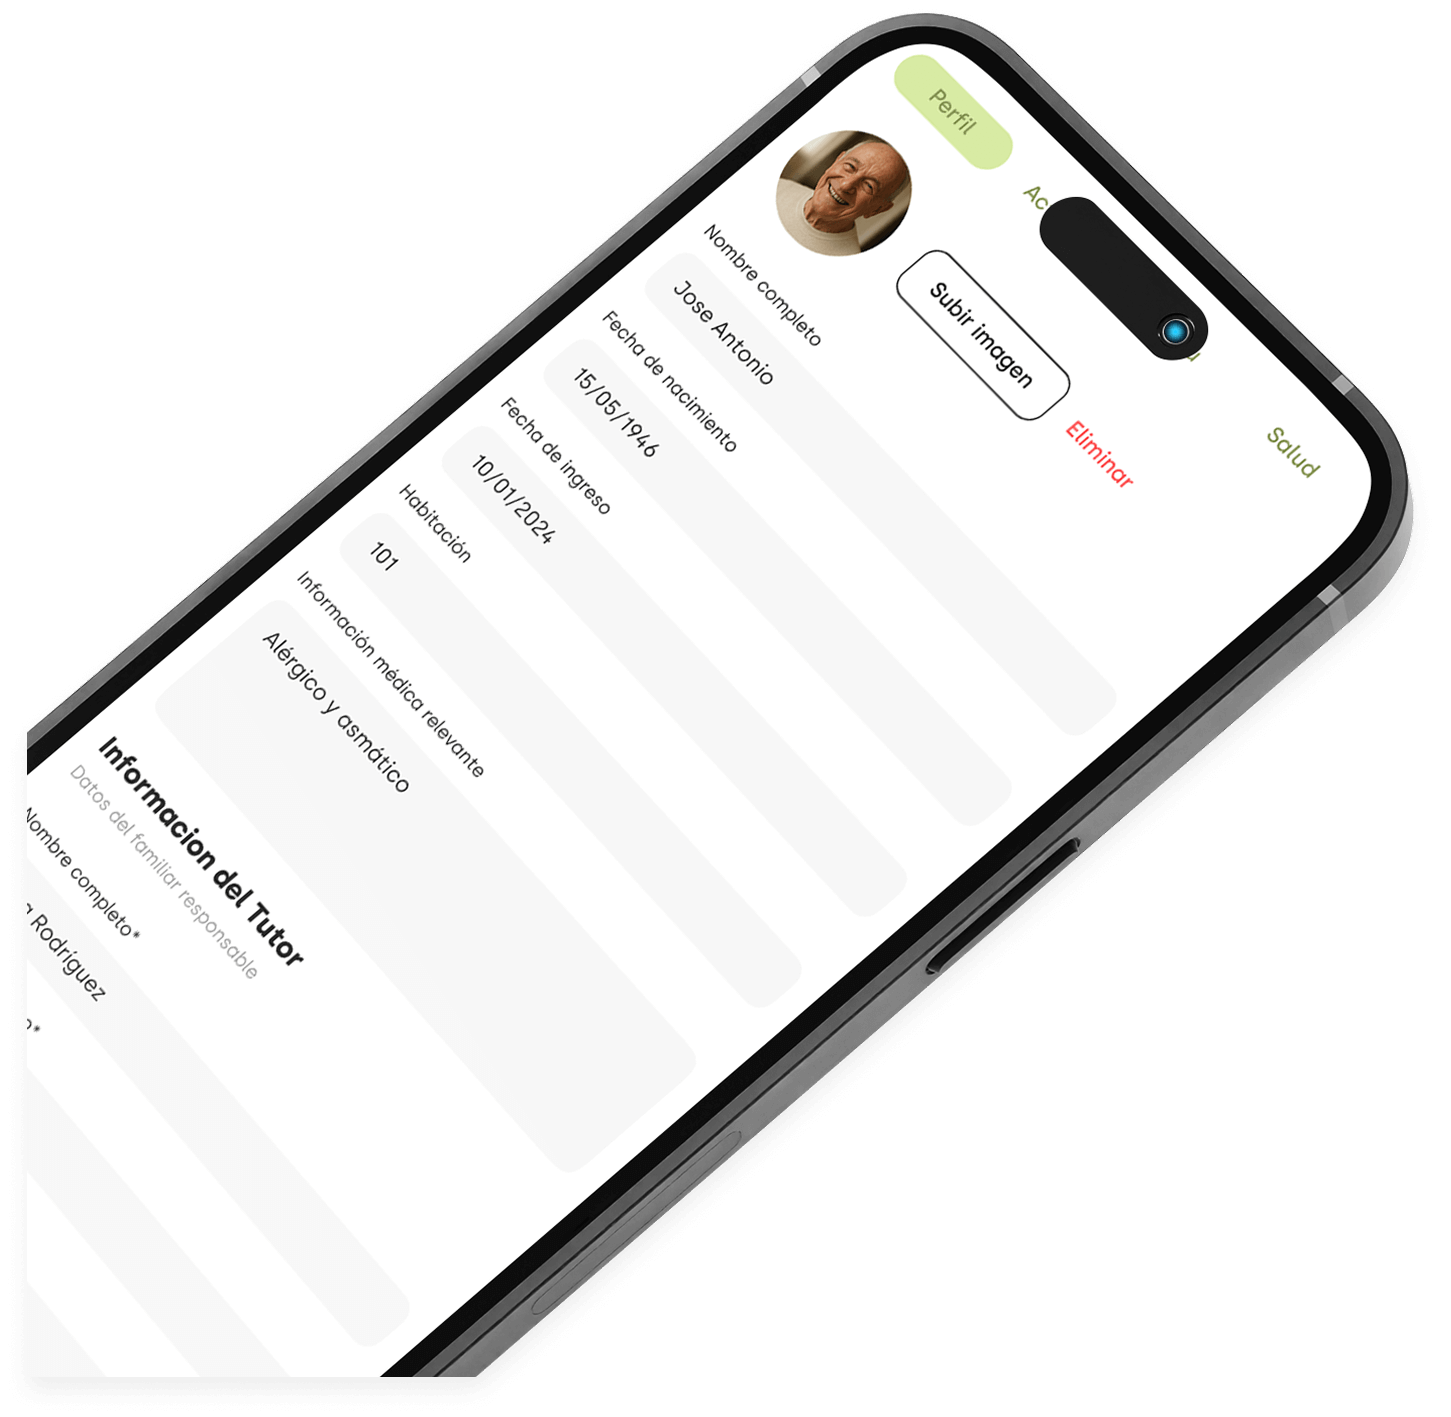
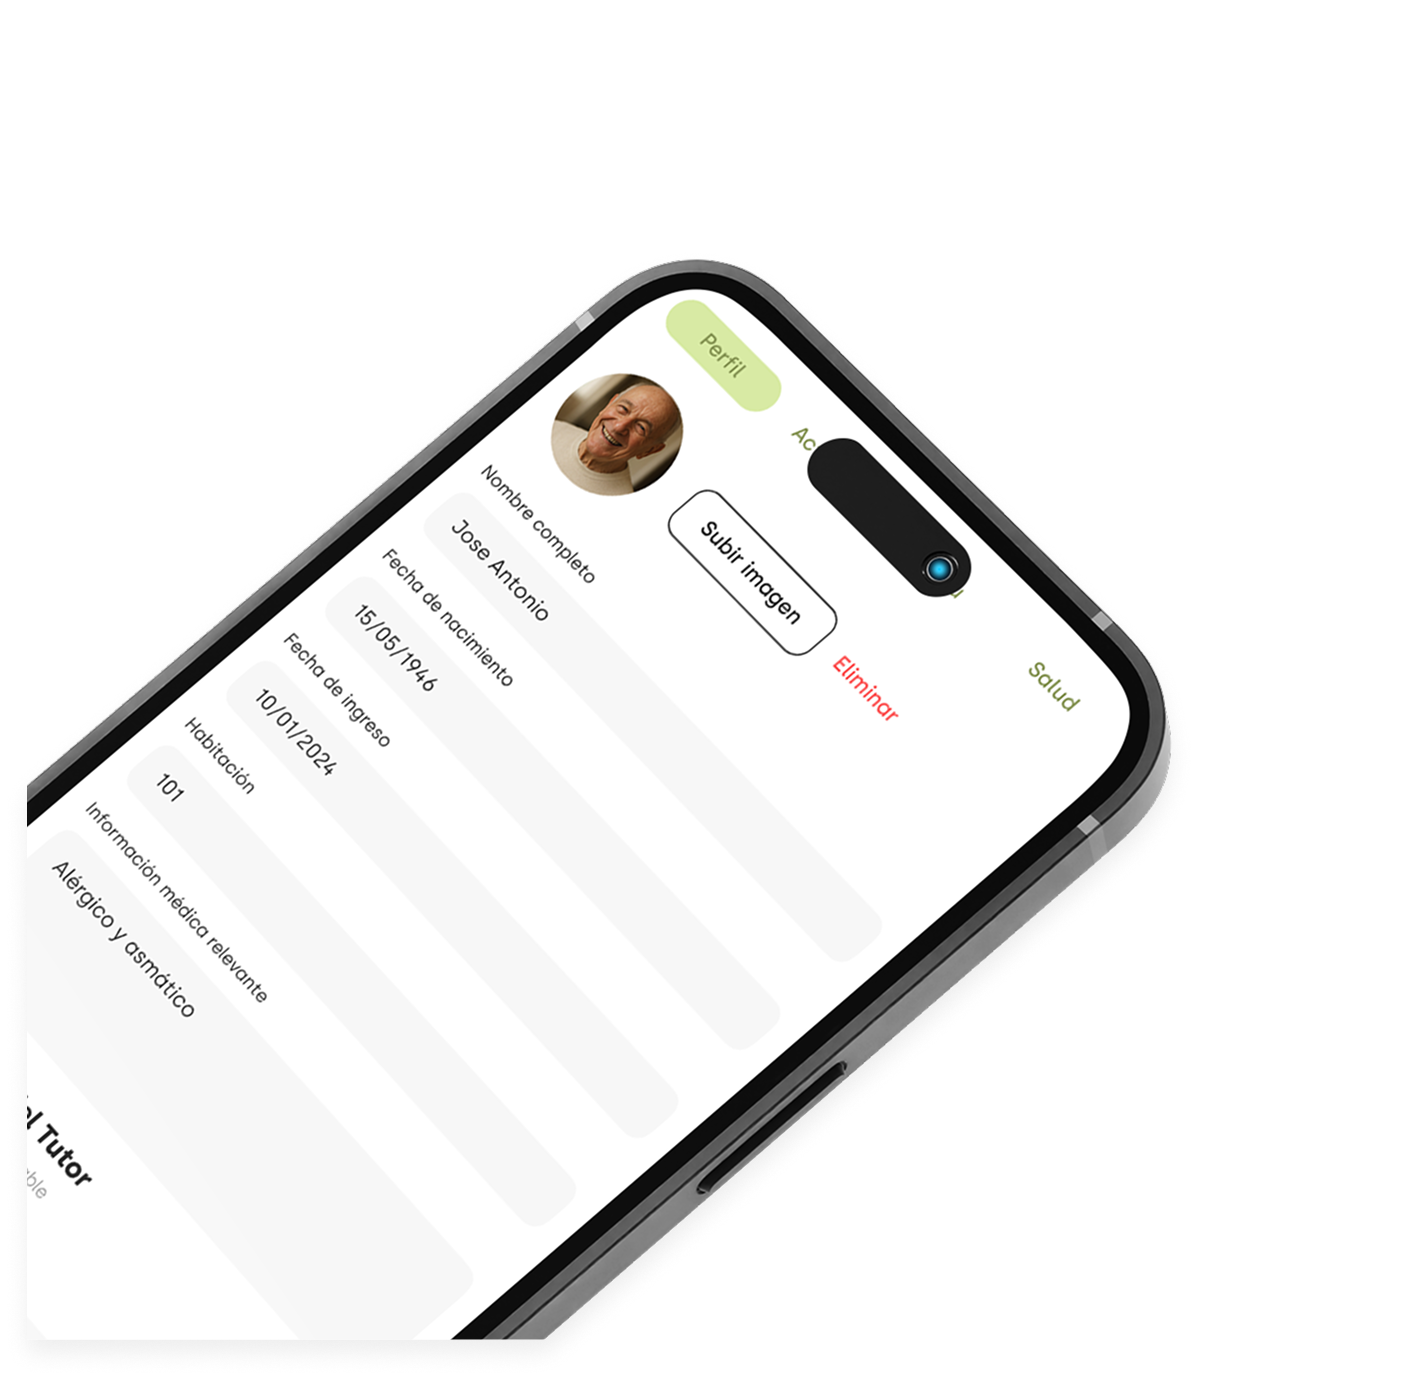
aaa

diff --git a/src/assets/css/style.css b/src/assets/css/style.css
@@ -2330,6 +2330,12 @@ mark {
     font-size: 16px;
     line-height: 1.4;
   }
+  .p33 {
+    font-family: "font-regular", Helvetica, "Arial ", "Lucida Grande", sans-serif;
+    font-weight: 400;
+    font-size: 12px;
+    line-height: 1.4;
+  }
   .p4 {
     font-family: "font-regular", Helvetica, "Arial ", "Lucida Grande", sans-serif;
     font-weight: 400;
@@ -2370,6 +2376,10 @@ mark {
   }
   .p3 {
     font-size: 16px;
+    line-height: 1.4;
+  }
+  .p33 {
+    font-size: 14px;
     line-height: 1.4;
   }
   .p4 {
@@ -15489,8 +15499,9 @@ svg#bubble-whatsapp-icon path {
 .boxshow-inner-img {
   display: flex;
   flex-direction: column;
-  height: 100%;
+  height: 75%;
   align-items: center;
+  z-index: 10;
 }
 .lateral-scroll-title {
   position: absolute;
@@ -15886,7 +15897,6 @@ html {
 }
 
 body {
-  overflow-x: hidden;
   color: var(--c-primary);
   background-color: #fff;
   scroll-behavior: smooth;
@@ -17370,7 +17380,7 @@ html.lenis body {
   right: 64px;
   width: 100%;
   height: 100%;
-  z-index: 10;
+  z-index: 5;
 }
 .lineright svg {
   width: 100%;
@@ -17457,11 +17467,13 @@ html.lenis body {
   left: -10px;
   position: absolute;
   gap: 8px;
+  top: 12px;
 }
 @media (min-width: 768px) {
   .logo-unires {
     transform: scale(1);
     left: 20px;
+    top: 15px;
   }
 }
 
@@ -17519,4 +17531,15 @@ ul.list-vertical li a {
   list-style: none;
   padding: 0;
   margin: 0;
+}
+
+.arrow-border {
+  display: flex;
+  align-items: center;
+  justify-content: center;
+  border: 1px solid hsla(0, 0%, 100%, 0.22);
+  border-radius: 50px;
+  padding: 8px;
+  width: 100px;
+  height: 50px;
 }

diff --git a/src/assets/js/scroll.js b/src/assets/js/scroll.js
@@ -7,11 +7,12 @@ els.forEach((el) => {
 // Inicializar Lenis
 let lenis = new Lenis({
   smooth: true,
-  lerp: 0.07, // Suavidad del scroll
-  duration: 1.2, // Suavidad del scroll
-  pinned: true,
+  lerp: 0.1, // Suavidad del scroll
+  duration: 1, // Suavidad del scroll
   easing: (t) => t, // Curva de desplazamiento (lineal)
 });
+
+console.log("Lenis inicializado");
 
 // Agregar la clase "scrolled" al body según la posición del scroll
 lenis.on('scroll', () => {
@@ -23,8 +24,6 @@ lenis.on('scroll', () => {
     document.body.classList.remove("scrolled");
   }
 });
-
-
 
 function updateOpacity() {
   const sections = document.querySelectorAll('.fade-opacity');
@@ -47,19 +46,9 @@ function updateOpacity() {
 function raf(time) {
   lenis.raf(time);
   updateOpacity(); // Actualiza la opacidad en cada frame
-  updateBodyColor(); // Actualiza el color del body en cada frame
+  requestAnimationFrame(raf);
 }
 
-let isScrolling = false;
-
-document.addEventListener('scroll', () => {
-  if (!isScrolling) {
-    isScrolling = true;
-    requestAnimationFrame((time) => {
-      raf(time);
-      isScrolling = false;
-    });
-  }
-});
-
+// Inicializar el loop de animación
+requestAnimationFrame(raf);
 

diff --git a/src/assets/js/inview.js b/src/assets/js/inview.js
@@ -223,31 +223,9 @@ const createObservers = () => {
   });
 };
 
-// Función para limpiar observadores (importante para Barba.js)
-const cleanupObservers = () => {
-  if (inViewObserver) inViewObserver.disconnect();
-  if (inView80Observer) inView80Observer.disconnect();
-  if (animateOnScrollObserver) animateOnScrollObserver.disconnect();
-  if (animateWordsObserver) animateWordsObserver.disconnect();
-  if (animateBoxObserver) animateBoxObserver.disconnect();
-  if (animateBox2Observer) animateBox2Observer.disconnect();
-  if (animateListObserver) animateListObserver.disconnect();
-  if (animateLettersObserver) animateLettersObserver.disconnect();
-};
-
-// Función de inicialización que se puede llamar desde Barba.js
-const initInView = () => {
-  console.log('Inicializando InView...');
-  cleanupObservers();
-  createObservers();
-};
-
-// Inicialización inicial
+// Inicialización cuando el DOM esté listo
 document.addEventListener("DOMContentLoaded", function () {
-  initInView();
+  createObservers();
 });
-
-// Hacer la función disponible globalmente para Barba.js
-window.initInView = initInView;
 
 let getRatio = el => window.innerHeight / (window.innerHeight + el.offsetHeight);

diff --git a/src/assets/sass/style.scss b/src/assets/sass/style.scss
@@ -75,7 +75,7 @@ html {
   scroll-padding-top: 80px;
 }
 body {
-  overflow-x: hidden;
+
   color: $c-primary;
   background-color: #fff;
   scroll-behavior: smooth;
@@ -1358,7 +1358,7 @@ left: 0;
   right: 64px;
   width: 100%;
   height: 100%;
-  z-index: 10;
+  z-index: 5;
   svg {
     width: 100%;
   }
@@ -1450,17 +1450,18 @@ left: 0;
 
 }
 .logo-unires{
-  display: flex
-  ;
+  display: flex;
       align-items: center;
       transform: scale(0.7);
       left: -10px;
       position: absolute;
       gap: 8px;
+      top: 12px;
 
       @media (min-width: 768px) {
         transform: scale(1);
         left: 20px;
+        top: 15px;
       }
 }
 
@@ -1532,4 +1533,17 @@ position: relative;
   list-style: none;
   padding: 0;
   margin: 0;
+}
+
+.arrow-border{
+  display: flex;
+  align-items: center;
+  justify-content: center;
+  border: 1px solid hsla(0, 0%, 100%, 0.22);
+  border-radius: 50px;
+  padding: 8px;
+  width: 100px;
+  height: 50px;
+
+
 }

diff --git a/src/assets/sass/abstract/_setup.scss b/src/assets/sass/abstract/_setup.scss
@@ -41,6 +41,7 @@ $minheaders: /* name: mobile,768,992,1280, line-height, font */
   p1: (18px, 24px, 1.2, "medium"), // 120 %
   p2: (18px, 18px, 1.4, "medium"), // 140 %
   p3: (16px, 16px, 1.4, "regular"), // 140 %
+  p33: (12px, 14px, 1.4, "regular"), // 140 %
   p4: (12px, 14px, 1.2, "regular"), // 120 %
   p5: (12px, 12px, 1.33, "medium") // 16 px ÷ 12 px
 );

diff --git a/src/assets/sass/componentes/_parallaxboxes.scss b/src/assets/sass/componentes/_parallaxboxes.scss
@@ -40,8 +40,10 @@
   display: flex;
 
   flex-direction: column;
-  height: 100%;
+  height: 75%;
   align-items: center;
+
+  z-index: 10;
   @media (min-width: 768px) {
 
   }
